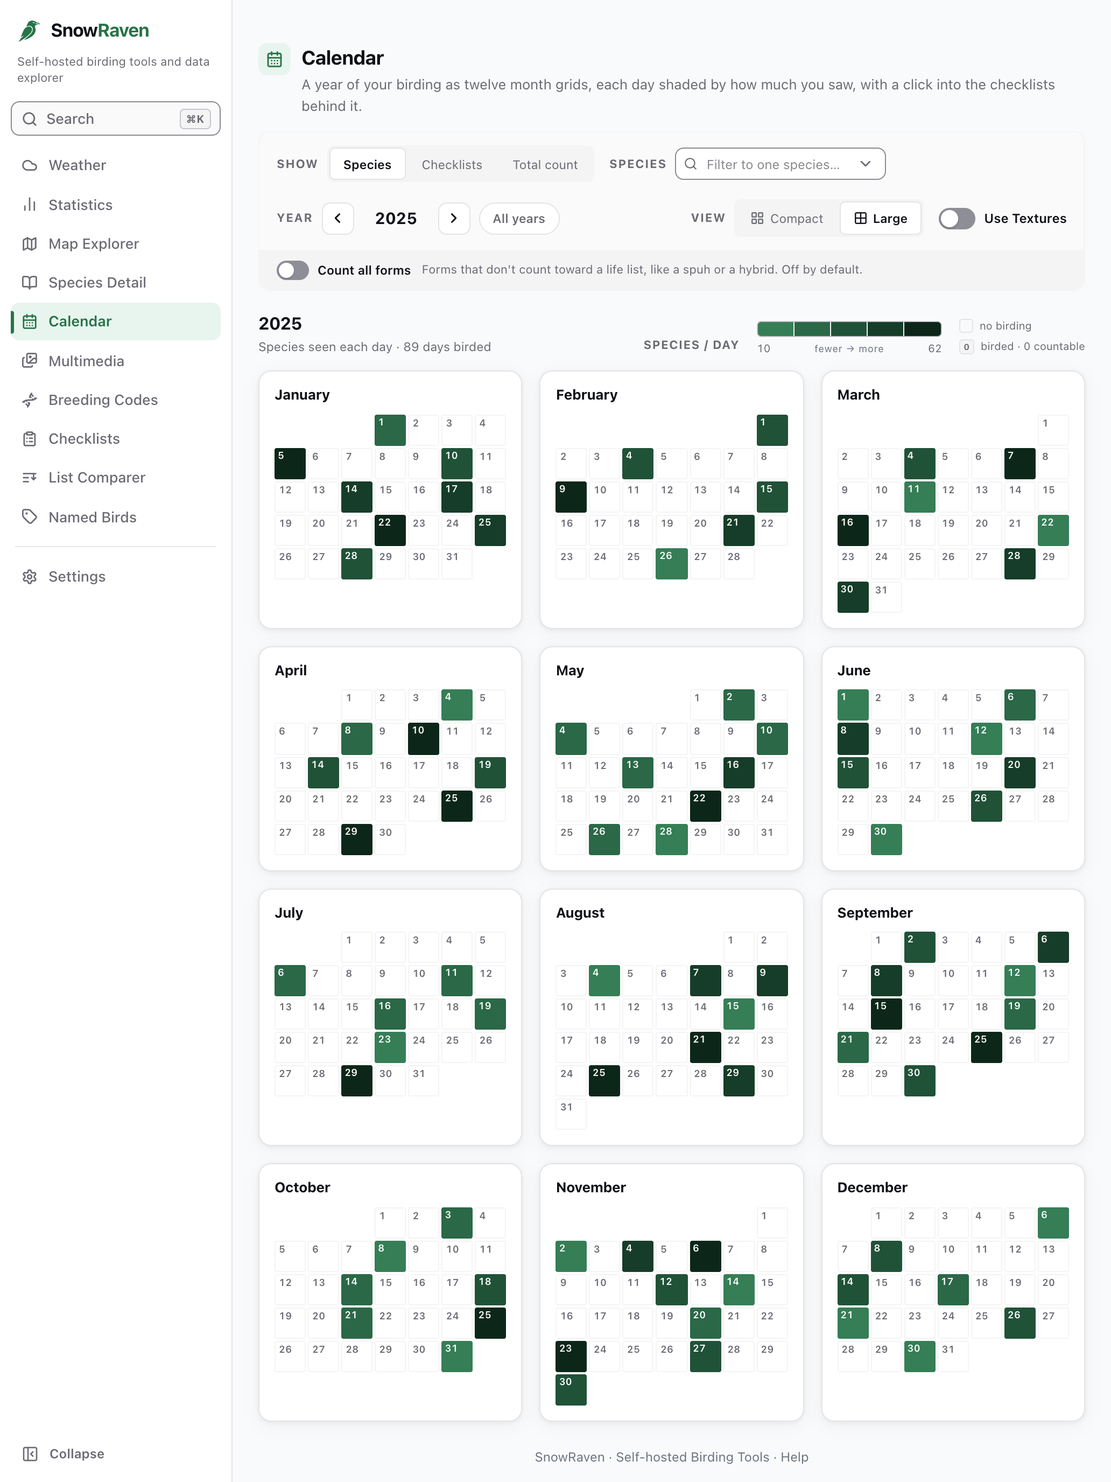
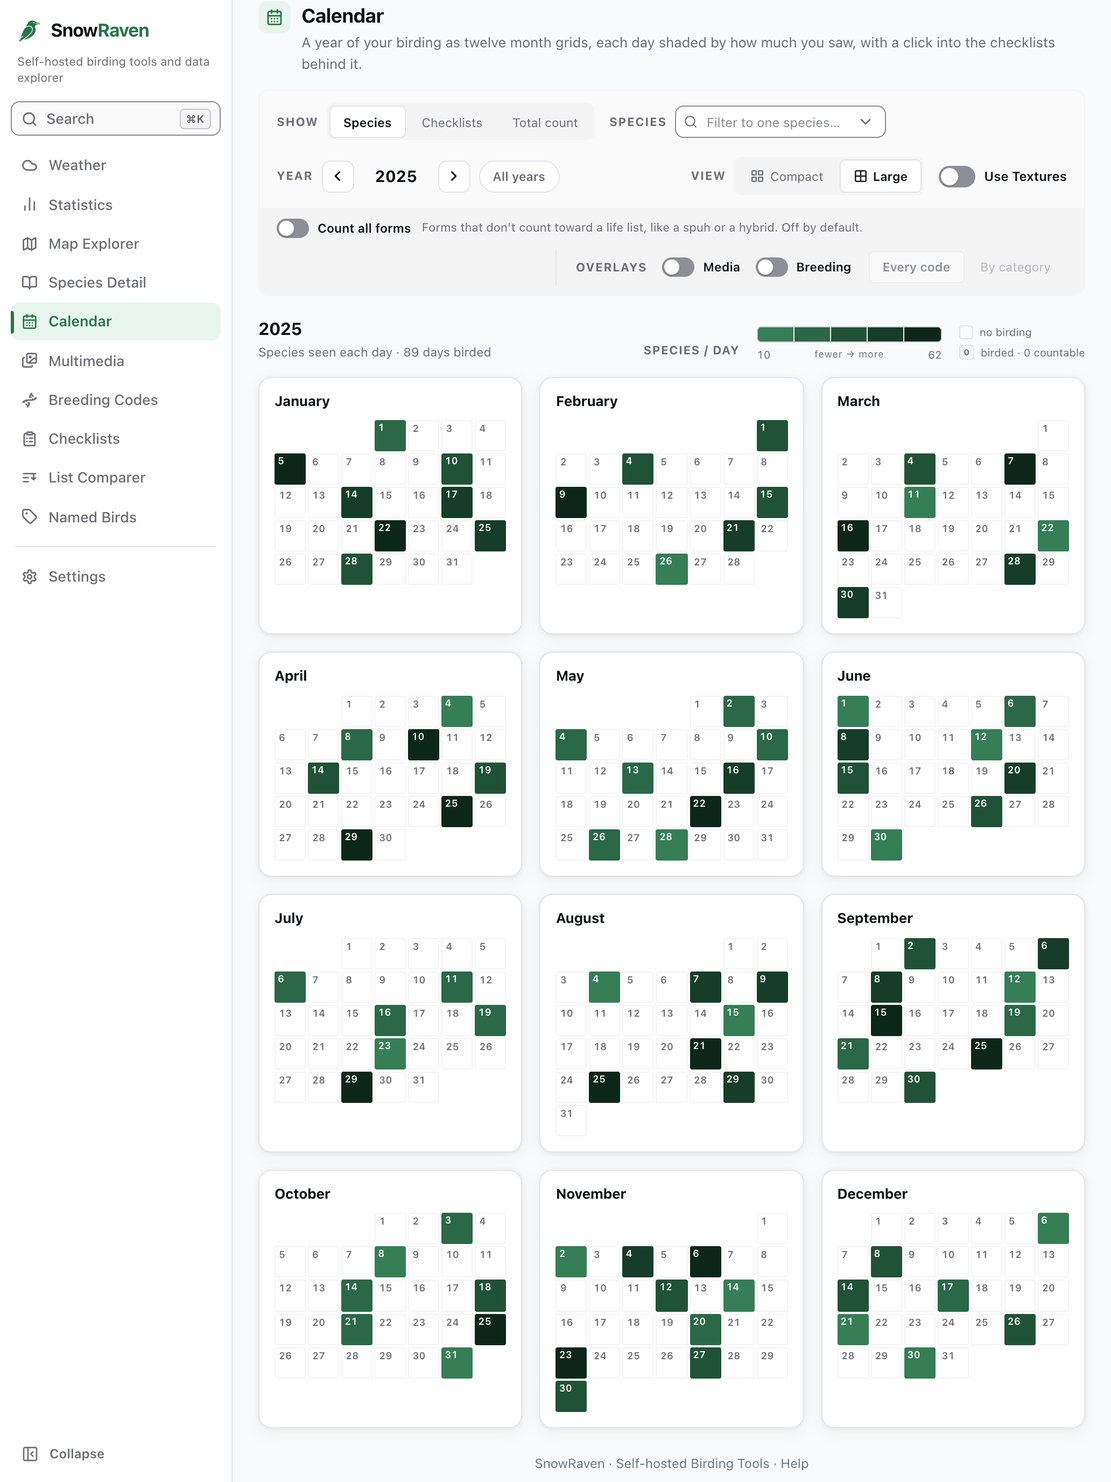
docs: 1.0.38 App Store record submitted, with the iPad Calendar shot recaptured
The iPad 13 Calendar screenshot photographs the whole Calendar controls
panel, which 1.0.38 extends with an Overlays row, so it was recaptured
from the synthetic demo data (Media and Breeding off) and the whole
iPad set replaced in order on record 63dc73df before submission as
451305aa (WAITING_FOR_REVIEW), after the user's device check of build
1.0.38.1 and their approval of the What's New text. CLAUDE.md's App
Store list names 1.0.37 as TestFlight-only by the user's direction and
records 1.0.38's record and submission; decisions.md D8-02 has the detail.

diff --git a/CLAUDE.md b/CLAUDE.md
@@ -24,7 +24,7 @@ decisions that all builders must follow.
 - **After pushing a version bump, run `./release.sh`** to build, notarize, and publish the macOS desktop app. This script creates the GitHub release (or uploads to an existing one), signs the updater bundle, and generates `latest.json` for in-app update detection. Credentials (Apple API key, notarization) stay local — never stored in GitHub.
 - **Do not use `gh release create` directly** for desktop app releases — always use `release.sh` so the signed binary and `latest.json` are included. The in-app update check depends on `latest.json` being present in the release assets.
 - **Tauri v2 macOS updater mechanism:** `downloadAndInstall` performs synchronous in-place bundle replacement — no shell script, no sleep, no `open -a`. The `.app` bundle is fully replaced on disk before the Promise resolves. After `downloadAndInstall` returns, call `relaunch()` (not `exit(0)`). `relaunch()` spawns `current_exe` (now the new binary) and exits cleanly. `exit(0)` just terminates the process with no relaunch, leaving the user with no running app.
-- **Release rhythm (summary):** bump version → commit → push `main` → push the `vX.Y.Z` tag (starts Windows CI) → wait for CI green → run `./release.sh` → ship the iOS TestFlight build of the SAME version → submit that same build for App Store review. **A release goes to ALL available platforms, every time** (user direction, v0.5.78; the App Store became a standing leg at 1.0.0) — a release is not done until every leg has shipped and been submitted. **VERIFY the App Store leg against App Store Connect; never infer it from the repo (v1.0.17).** 1.0.15 and 1.0.16 each shipped a `VALID` TestFlight build and neither ever got an App Store *version record*, so the store sat on 1.0.14 for two releases — and nothing in this repo would have said so: a TestFlight build is not a submission, the changelog and tags look identical either way, and the miss was only found by querying ASC during the next ship. A ROADMAP item naming the debt was **not** enough; it was item 1 in Up Next while 1.0.16 shipped past it. **AND WRITING THIS RULE HERE WAS NOT ENOUGH EITHER: IT HAPPENED A THIRD TIME, AT 1.0.18 (v1.0.20).** Queried at the 1.0.20 ship, version records exist for 1.0.19, 1.0.17, 1.0.14, 1.0.13 and 1.0.4, while TestFlight holds VALID builds for 1.0.15.1, 1.0.16.1, 1.0.17.1, **1.0.18.1** and 1.0.19.1 -- so 1.0.18 is the third release to ship a VALID build and never receive a store version record. Nothing was lost to users (1.0.17 carried 1.0.15 and 1.0.16 to the store, 1.0.19 carried 1.0.18), and each skip was found the same way and only that way: **by querying ASC at the next ship.** Record the pattern rather than the intention -- a roadmap item and a rule in this file have each now failed to stop it, so do not add a third reminder; do the query. So at every ship, list the version records for the last few releases (`GET /v1/apps/{id}/appStoreVersions`) and confirm each one either shipped or is deliberately deferred **in writing**; a deferral is a decision with a reason, never a silence. **THE QUERY CANNOT DISTINGUISH A DELIBERATE ROLLUP FROM A SILENT SKIP, WHICH IS WHY THE WRITTEN RECORD IS LOAD-BEARING RATHER THAN CEREMONIAL.** When a release is folded into the next one -- the in-review record withdrawn, retargeted at the newer version, repointed at the newer build and resubmitted -- the older version ends with a `VALID` TestFlight build and no version record of its own, which is the same evidence signature a skip leaves. ASC offers nothing else to separate them: the withdrawn record no longer names the version it used to carry, so from the outside a rollup and an omission are identical. **This is measured, not hypothetical: at the 1.0.23 ship the iOS build agent applied the rule above correctly and flagged 1.0.20 as a probable FOURTH silent skip -- because the repo's own record gave it no way to tell.** Five rollups exist and all were deliberate user decisions at the deploy gate: 1.0.20 into 1.0.21 (2026-09-06), 1.0.22 into 1.0.23 (2026-09-07 -- record `bd0af66a` withdrawn, retargeted, repointed at build 1.0.23.1, resubmitted as `ac7619d0`), 1.0.26 into 1.0.27 (recorded in DECISIONS.md at v1.0.27), 1.0.29 into 1.0.30 (2026-09-13 -- record `930ed55a` withdrawn while WAITING_FOR_REVIEW, retargeted, repointed at build 1.0.30.1, resubmitted as `c2b858fc`), and 1.0.33 into 1.0.34 (2026-09-22 -- record `f380012a` withdrawn from submission `44f7cb18` while WAITING_FOR_REVIEW, retargeted, repointed at build 1.0.34.1, resubmitted as `4fe5686a`). **This list read "two rollups" until the 1.0.30 closeout and had never counted 1.0.26, which is the failure the list exists to prevent arriving through the list itself: when you roll one up, add it HERE in the same ship.** The three genuine skips remain 1.0.15, 1.0.16 and 1.0.18. **1.0.25 is a fifth case and a THIRD kind -- deliberately DEFERRED, neither rolled up nor skipped:** at its deploy gate 1.0.24 was `IN_REVIEW` on record `6900bf93` and the user chose to leave that review undisturbed, so 1.0.25 ended with VALID build 1.0.25.1 and no record of its own, and the deferral was resolved at 1.0.26, whose review notes carry the 1.0.25 fixes. **It was missing from this list until the 2026-09-15 apple-platform-readiness closeout, which is the SECOND time this list has been found incomplete** -- a live ASC query that run showed version records jumping 1.0.24 straight to 1.0.27 while TestFlight held a VALID 1.0.25.1 build, which is the exact evidence signature a skip leaves, and only DECISIONS.md separated them. This list, not DECISIONS.md, is what a ship reads at a glance, so a version that ends without a record of its own is added HERE in the same ship whatever the reason -- rollup, deferral, or a build Apple refused. So a rollup is written down at the ship exactly as a deferral is, naming both versions and the resubmitted record id; **a version with no record and no sentence is a skip**, because that is the only reading the query supports. When releases have accumulated, the notes cover all of them. **TWO ENTRIES FROM THE 1.0.33 SHIP (2026-09-22), both here so the list stays complete.** **1.0.32 is RESOLVED**: it holds its own record `34a97cc3-c028-4894-907b-72cd7a988bab`, READY_FOR_SALE on build 1.0.32.1, submitted at `d3c71d1` after its own closeout had already written that leg down as deliberately outstanding. That disposition was true when written and went stale when the submission happened, which is the decay this rule exists for -- and it is also the rule WORKING, because only the live query at the next ship found it, exactly as the instruction above says it would. **1.0.33 was submitted and then ROLLED UP into 1.0.34 the same day (listed above), so it holds VALID build 1.0.33.1 (delivery `b5b71100`) and no version record of its own by rollup, not by skip:** its record `f380012a` was created on 1.0.33.1 after the device check and submitted as `44f7cb18`, and was still `WAITING_FOR_REVIEW` when 1.0.34 shipped. The reconciliation at the 1.0.34 ship found no unaccounted gap between 1.0.13 and 1.0.34. **TWO ENTRIES FROM THE 1.0.35 SHIP (2026-09-23).** **1.0.34 is RESOLVED**: its own record `f380012a` is READY_FOR_SALE on build 1.0.34.1 (submission `4fe5686a` COMPLETE). **1.0.35 was DEFERRED, then SUBMITTED on its own record the same day:** after the user's real-device install of build 1.0.35.1 (delivery `88d5d94d`) and with the four recaptured store screenshots that had shown the species picker's pre-fix bottom edge (`4f7fe39`), record `cfa11d7b` was created on build 1.0.35.1 and submitted as `36c333a9` (`WAITING_FOR_REVIEW`). **ONE ENTRY FROM THE 1.0.36 SHIP (2026-09-25).** **1.0.35 is RESOLVED**: record `cfa11d7b` is READY_FOR_SALE on build 1.0.35.1 (submission `36c333a9` COMPLETE). 1.0.36 is on its own record `773cd204`, submitted on build 1.0.36.3 as `21af3c59` (`WAITING_FOR_REVIEW`); its VALID builds 1.0.36.1 and 1.0.36.2 are superseded builds of the same version, each followed by a device pass that changed the design, not skips. The reconciliation at the 1.0.36 ship found no unaccounted gap between 1.0.13 and 1.0.36. The full runbook lives in the `snowraven-release` skill (below).
+- **Release rhythm (summary):** bump version → commit → push `main` → push the `vX.Y.Z` tag (starts Windows CI) → wait for CI green → run `./release.sh` → ship the iOS TestFlight build of the SAME version → submit that same build for App Store review. **A release goes to ALL available platforms, every time** (user direction, v0.5.78; the App Store became a standing leg at 1.0.0) — a release is not done until every leg has shipped and been submitted. **VERIFY the App Store leg against App Store Connect; never infer it from the repo (v1.0.17).** 1.0.15 and 1.0.16 each shipped a `VALID` TestFlight build and neither ever got an App Store *version record*, so the store sat on 1.0.14 for two releases — and nothing in this repo would have said so: a TestFlight build is not a submission, the changelog and tags look identical either way, and the miss was only found by querying ASC during the next ship. A ROADMAP item naming the debt was **not** enough; it was item 1 in Up Next while 1.0.16 shipped past it. **AND WRITING THIS RULE HERE WAS NOT ENOUGH EITHER: IT HAPPENED A THIRD TIME, AT 1.0.18 (v1.0.20).** Queried at the 1.0.20 ship, version records exist for 1.0.19, 1.0.17, 1.0.14, 1.0.13 and 1.0.4, while TestFlight holds VALID builds for 1.0.15.1, 1.0.16.1, 1.0.17.1, **1.0.18.1** and 1.0.19.1 -- so 1.0.18 is the third release to ship a VALID build and never receive a store version record. Nothing was lost to users (1.0.17 carried 1.0.15 and 1.0.16 to the store, 1.0.19 carried 1.0.18), and each skip was found the same way and only that way: **by querying ASC at the next ship.** Record the pattern rather than the intention -- a roadmap item and a rule in this file have each now failed to stop it, so do not add a third reminder; do the query. So at every ship, list the version records for the last few releases (`GET /v1/apps/{id}/appStoreVersions`) and confirm each one either shipped or is deliberately deferred **in writing**; a deferral is a decision with a reason, never a silence. **THE QUERY CANNOT DISTINGUISH A DELIBERATE ROLLUP FROM A SILENT SKIP, WHICH IS WHY THE WRITTEN RECORD IS LOAD-BEARING RATHER THAN CEREMONIAL.** When a release is folded into the next one -- the in-review record withdrawn, retargeted at the newer version, repointed at the newer build and resubmitted -- the older version ends with a `VALID` TestFlight build and no version record of its own, which is the same evidence signature a skip leaves. ASC offers nothing else to separate them: the withdrawn record no longer names the version it used to carry, so from the outside a rollup and an omission are identical. **This is measured, not hypothetical: at the 1.0.23 ship the iOS build agent applied the rule above correctly and flagged 1.0.20 as a probable FOURTH silent skip -- because the repo's own record gave it no way to tell.** Five rollups exist and all were deliberate user decisions at the deploy gate: 1.0.20 into 1.0.21 (2026-09-06), 1.0.22 into 1.0.23 (2026-09-07 -- record `bd0af66a` withdrawn, retargeted, repointed at build 1.0.23.1, resubmitted as `ac7619d0`), 1.0.26 into 1.0.27 (recorded in DECISIONS.md at v1.0.27), 1.0.29 into 1.0.30 (2026-09-13 -- record `930ed55a` withdrawn while WAITING_FOR_REVIEW, retargeted, repointed at build 1.0.30.1, resubmitted as `c2b858fc`), and 1.0.33 into 1.0.34 (2026-09-22 -- record `f380012a` withdrawn from submission `44f7cb18` while WAITING_FOR_REVIEW, retargeted, repointed at build 1.0.34.1, resubmitted as `4fe5686a`). **This list read "two rollups" until the 1.0.30 closeout and had never counted 1.0.26, which is the failure the list exists to prevent arriving through the list itself: when you roll one up, add it HERE in the same ship.** The three genuine skips remain 1.0.15, 1.0.16 and 1.0.18. **1.0.25 is a fifth case and a THIRD kind -- deliberately DEFERRED, neither rolled up nor skipped:** at its deploy gate 1.0.24 was `IN_REVIEW` on record `6900bf93` and the user chose to leave that review undisturbed, so 1.0.25 ended with VALID build 1.0.25.1 and no record of its own, and the deferral was resolved at 1.0.26, whose review notes carry the 1.0.25 fixes. **It was missing from this list until the 2026-09-15 apple-platform-readiness closeout, which is the SECOND time this list has been found incomplete** -- a live ASC query that run showed version records jumping 1.0.24 straight to 1.0.27 while TestFlight held a VALID 1.0.25.1 build, which is the exact evidence signature a skip leaves, and only DECISIONS.md separated them. This list, not DECISIONS.md, is what a ship reads at a glance, so a version that ends without a record of its own is added HERE in the same ship whatever the reason -- rollup, deferral, or a build Apple refused. So a rollup is written down at the ship exactly as a deferral is, naming both versions and the resubmitted record id; **a version with no record and no sentence is a skip**, because that is the only reading the query supports. When releases have accumulated, the notes cover all of them. **TWO ENTRIES FROM THE 1.0.33 SHIP (2026-09-22), both here so the list stays complete.** **1.0.32 is RESOLVED**: it holds its own record `34a97cc3-c028-4894-907b-72cd7a988bab`, READY_FOR_SALE on build 1.0.32.1, submitted at `d3c71d1` after its own closeout had already written that leg down as deliberately outstanding. That disposition was true when written and went stale when the submission happened, which is the decay this rule exists for -- and it is also the rule WORKING, because only the live query at the next ship found it, exactly as the instruction above says it would. **1.0.33 was submitted and then ROLLED UP into 1.0.34 the same day (listed above), so it holds VALID build 1.0.33.1 (delivery `b5b71100`) and no version record of its own by rollup, not by skip:** its record `f380012a` was created on 1.0.33.1 after the device check and submitted as `44f7cb18`, and was still `WAITING_FOR_REVIEW` when 1.0.34 shipped. The reconciliation at the 1.0.34 ship found no unaccounted gap between 1.0.13 and 1.0.34. **TWO ENTRIES FROM THE 1.0.35 SHIP (2026-09-23).** **1.0.34 is RESOLVED**: its own record `f380012a` is READY_FOR_SALE on build 1.0.34.1 (submission `4fe5686a` COMPLETE). **1.0.35 was DEFERRED, then SUBMITTED on its own record the same day:** after the user's real-device install of build 1.0.35.1 (delivery `88d5d94d`) and with the four recaptured store screenshots that had shown the species picker's pre-fix bottom edge (`4f7fe39`), record `cfa11d7b` was created on build 1.0.35.1 and submitted as `36c333a9` (`WAITING_FOR_REVIEW`). **ONE ENTRY FROM THE 1.0.36 SHIP (2026-09-25).** **1.0.35 is RESOLVED**: record `cfa11d7b` is READY_FOR_SALE on build 1.0.35.1 (submission `36c333a9` COMPLETE). 1.0.36 is on its own record `773cd204`, submitted on build 1.0.36.3 as `21af3c59` (`WAITING_FOR_REVIEW`); its VALID builds 1.0.36.1 and 1.0.36.2 are superseded builds of the same version, each followed by a device pass that changed the design, not skips. The reconciliation at the 1.0.36 ship found no unaccounted gap between 1.0.13 and 1.0.36. **ENTRIES FROM THE 1.0.38 SHIP (2026-09-27).** **1.0.36 is RESOLVED**: record `773cd204` is READY_FOR_SALE on build 1.0.36.3 (submission `21af3c59` COMPLETE). **1.0.37 was TESTFLIGHT-ONLY BY THE USER'S DIRECTION, so it holds VALID build 1.0.37.1 and no version record of its own by decision, not by skip -- a FOURTH kind beside skip, rollup and deferral:** the launch splash went to TestFlight alone, with no tag, no desktop release and no App Store submission (DECISIONS.md, Launch splash, 2026-09-26), and its content reaches the store in 1.0.38, whose What's New names it. **1.0.38 is on its own record `63dc73df-a7a6-4726-9ad4-76decc1fb676`, submitted on build 1.0.38.1 as `451305aa-56c8-49e0-9b19-9924ccbbed8b` (`WAITING_FOR_REVIEW`, `AFTER_APPROVAL`, no phased release)**, after the user's own device check of that build; the iPad 13 Calendar screenshot was recaptured for the Calendar's new Overlays row and the whole iPad set replaced in order. The reconciliation at the 1.0.38 ship, over every TestFlight train, found no unaccounted gap between 1.0.13 and 1.0.38. The full runbook lives in the `snowraven-release` skill (below).
 - **A RELEASED VERSION STRING'S PRE-RELEASE TRAIN IS CLOSED, SO THERE IS NO TESTFLIGHT-ONLY PATH AGAINST IT (2026-09-15, `b472ae8`, unreleased).** Once a version record reaches `READY_FOR_SALE`, Apple closes that version's *train* to **all** new builds -- TestFlight included, not only store submissions. An iOS-only fix therefore cannot ride a fresh build number against the shipped version: `altool --validate-app` refuses it with **90186** (`Invalid Pre-Release Train. The train version '1.0.30' is closed for new build submissions`) and **90062**. The apple-platform-readiness deploy gate reasoned that a released version merely could not take a new *store* build and concluded a TestFlight-only build would still go through; that is what made an authorized route look available when it did not exist. **So for an iOS-only fix the routes are exactly two:** a full version bump, which pulls the entire all-platforms rhythm above with it, or letting the fix ride whatever ships next. Validation is what made this cost a minute instead of a wasted upload, which is why `--validate-app` before `--upload-app` stays unconditional. The narrow shortcut is closed by this repo's own guard: bumping only the iOS bundle past `frontend/package.json` trips `iosSceneManifest.test.ts` -> `it('the stamped iOS version never LEADS the app version')`.
 - **A GREEN SUITE, TWO GREEN CI JOBS AND A SIMULATOR SCREENSHOT ARE NOT EVIDENCE THAT AN iOS BUILD LAUNCHES, SO A DEVICE INSTALL PRECEDES THE APP STORE SUBMISSION RATHER THAN FOLLOWING IT (v1.0.31).** The 1.0.31 iOS build crashed on launch, every time, on the exact commit where 6,269 frontend tests, 636 backend tests, typecheck, lint and both CI jobs were green -- and it was submitted for review having never run on hardware. The user found it. **The class is RELEASE-ONLY and therefore invisible to every debug and simulator check**: tao 0.35.3's `configuration_for_connecting_scene_session` returned `Retained::as_ptr(&config)` on a local dropped at function exit, and the release profile (`lto = true`, `opt-level = "s"`) is what lets the optimizer drop it immediately after the borrow, which upstream states is what makes the crash reliable. The iOS 27.0 simulator screenshots that settled the UIScene work were an honest check that could not have caught this, so **a simulator or debug screenshot does not clear a release-build launch path** -- and neither does `altool --validate-app`, which checks icons and entitlements, not whether the app runs. So: install the exact uploaded build on a real device, open it, and only then submit. The fix is vendored at `src-tauri/vendor/tao` (tauri-apps/tao#1245, one line) with its removal condition in `VENDORED.md`; the post-mortem is in DECISIONS.md.
 - **Cross-platform Rust deps must live in `[dependencies]`, not `[target.'cfg(target_os = "macos")'.dependencies]`.** `tzf-rs` (used by the cross-platform `get_timezone` command) was mis-scoped there and broke the Windows build with "unresolved import." The macOS-only block is only for genuinely macOS-only crates (objc2*, the CoreLocation stack). A crate real on both Apple platforms goes in the `cfg(any(target_os = "macos", target_os = "ios"))` block, and an Apple-vendor crate needed only on iOS (`objc2-ui-kit`) in its own `cfg(target_os = "ios")` block, never the android|ios mobile block: the cfg says where a crate is real, not which build happens to pull it (v1.0.11).

diff --git a/pipeline/calendar-overlays/decisions.md b/pipeline/calendar-overlays/decisions.md
@@ -618,3 +618,62 @@ exact uploaded build, before any App Store record is created.
 **Removal condition.** When swift-rs, or the Tauri release that pins it, builds
 a correct iOS package under Swift 6.4's default build system, drop the shim,
 and repeat the `platform 2` / `platform IOS` checks from a cold target.
+
+### D8-02. App Store: device check reported, What's New approved, iPad Calendar shot recaptured, submitted
+
+**Device check.** The user installed TestFlight build 1.0.38.1 (delivery
+`b35f45eb-030e-4267-8789-bf2b9fc65154`) on their own iPhone. They reported
+"the phone build works". Per the device boundary, that is the user's reported
+result, recorded as given; no agent touched a device.
+
+**What's New.** The user approved the drafted text unchanged. It was set on
+the record and read back byte-equal (388 characters):
+
+> SnowRaven 1.0.38 adds overlays to the Calendar.
+>
+> Two switches under Overlays mark the days you brought home photos,
+> recordings or videos, and the breeding codes you recorded, each led by a
+> circle for Confirmed, Probable or Possible. Both stay off until you turn
+> them on.
+>
+> The app now also opens on a small white raven on SnowRaven green, which
+> clears as soon as the first screen is ready.
+
+**Record.** `63dc73df-a7a6-4726-9ad4-76decc1fb676`, created on build 1.0.38.1,
+`AFTER_APPROVAL`, no phased release.
+- Promotional text: the new record came without it, as every new record
+  does, so it was set from `appstore/LISTING.md` and read back equal.
+- Unchanged and verified equal: the inherited description, keywords and URLs
+  (to LISTING.md), the review notes (to `appstore/REVIEW_NOTES.md`,
+  byte-equal), and the review contact (to 1.0.36's).
+- Age rating: the new editable app-info record (`83687f7b`) equals the
+  released one field for field.
+
+**Screenshots.** The planned "no change" was checked against the images and
+did not hold. The iPad 13 Calendar shot photographs the whole Calendar
+controls panel, and 1.0.38 always shows a new Overlays row there. By the
+user's standing rule never to submit a store screenshot a release behind, it
+was recaptured before submission:
+- From the synthetic demo data (guard OK, 368 synthetic checklists), with a
+  scratch copy of `capture-appstore.mjs` limited to that one shot, at the same
+  2064x2752 RGB with no alpha.
+- It shows the Overlays row with Media and Breeding off and is otherwise the
+  same 2025 Large view.
+- The taller panel makes the page scroll, so the rig's own framing now sits
+  the Calendar heading near the top edge. Nothing is clipped.
+- The whole iPad set was deleted and re-uploaded in order, 01 to 06. The read
+  back matches the committed files by name, order, size and MD5, all
+  `COMPLETE`. The other five were byte-identical to the store's images
+  before.
+- The iPhone set was untouched: its Calendar shot shows only the grid and
+  legend, which are unchanged with overlays off.
+
+The website's `calendar.webp` has the same property. A recapture was made to
+the scratchpad only, pending the user's approval under the website rule.
+
+**Submission.** Review submission `451305aa-56c8-49e0-9b19-9924ccbbed8b`,
+`WAITING_FOR_REVIEW`; the record reads `WAITING_FOR_REVIEW`.
+
+**Reconciliation.** Every TestFlight train since 1.0.13 without a version
+record is named in CLAUDE.md's list: the three skips, the five rollups, the
+1.0.25 deferral, and now 1.0.37, TestFlight-only by the user's direction.
